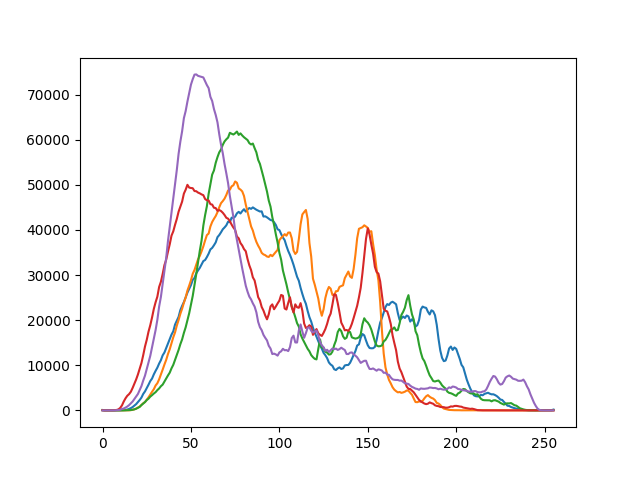
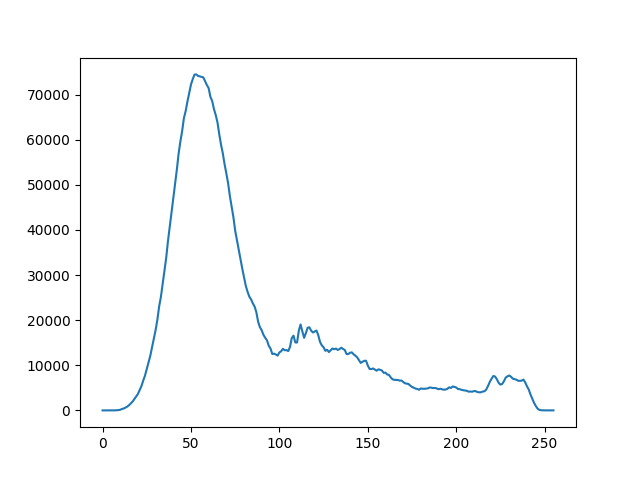
multiple hist problem solved
Added script to display histograms of each image.

Changed region(s): [[0.1562, 0.1562, 0.875, 0.875]]

diff --git a/Photos_preprocessing/preprocesing_Baranovski.py b/Photos_preprocessing/preprocesing_Baranovski.py
@@ -67,23 +67,28 @@ for i in baranovski_17_08_82:
 #     cv2.imshow("image", cut_images_17_08[i])
 #     cv2.waitKey(0)
 
-# todo:Apply some filters to normalize images --- According to Ms.Geyman's work.
+# todo:Apply some filters to normalize images --- According to Ms.Geyman's work. change images to grayscale
+
 
 # Let's generate image histograms to get information about pixel values in every single pic and its name.
 
 n = 23
 for img in cut_images_17_08:
-    histr = cv2.calcHist([img], [0], None, [256], [0, 256])
+    histr = cv2.calcHist(img, [0], None, [256], [0, 256])
     plt.plot(histr)
-    name = f"SV_1982-08-16_{n}"
-    n += 1
+    name = f"SV_1982-08-17_{n}"
     plt.savefig(fr'D:\SFM_Archival_Photogrametry\Images\Histograms\\{name}')
+    plt.show()
+    n += 1
 
-n = 13
-for img in cut_images_16_08:
-    histr = cv2.calcHist([img], [0], None, [256], [0, 256])
+
+e = 13
+for img1 in cut_images_16_08:
+    histr = cv2.calcHist([img1], [0], None, [256], [0, 256])
     plt.plot(histr)
-    name = f"SV_1982-08-16_{n}"
-    n += 1
+    name = f"SV_1982-08-16_{e}"
     plt.savefig(fr'D:\SFM_Archival_Photogrametry\Images\Histograms\\{name}')
-    
+    plt.show()
+    e += 1
+
+
